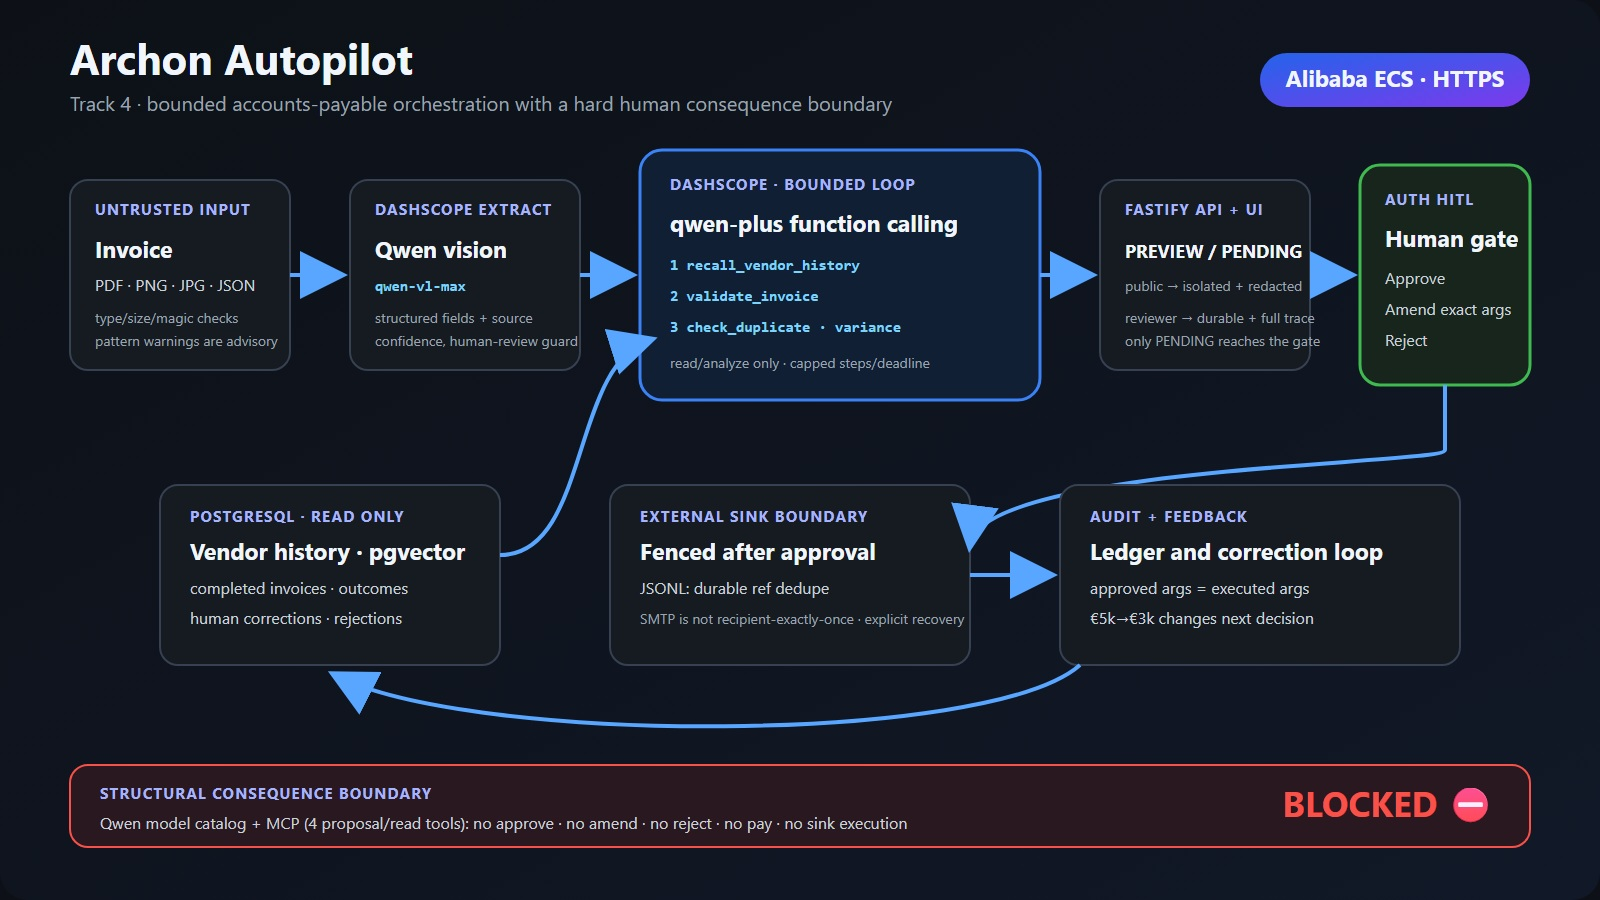
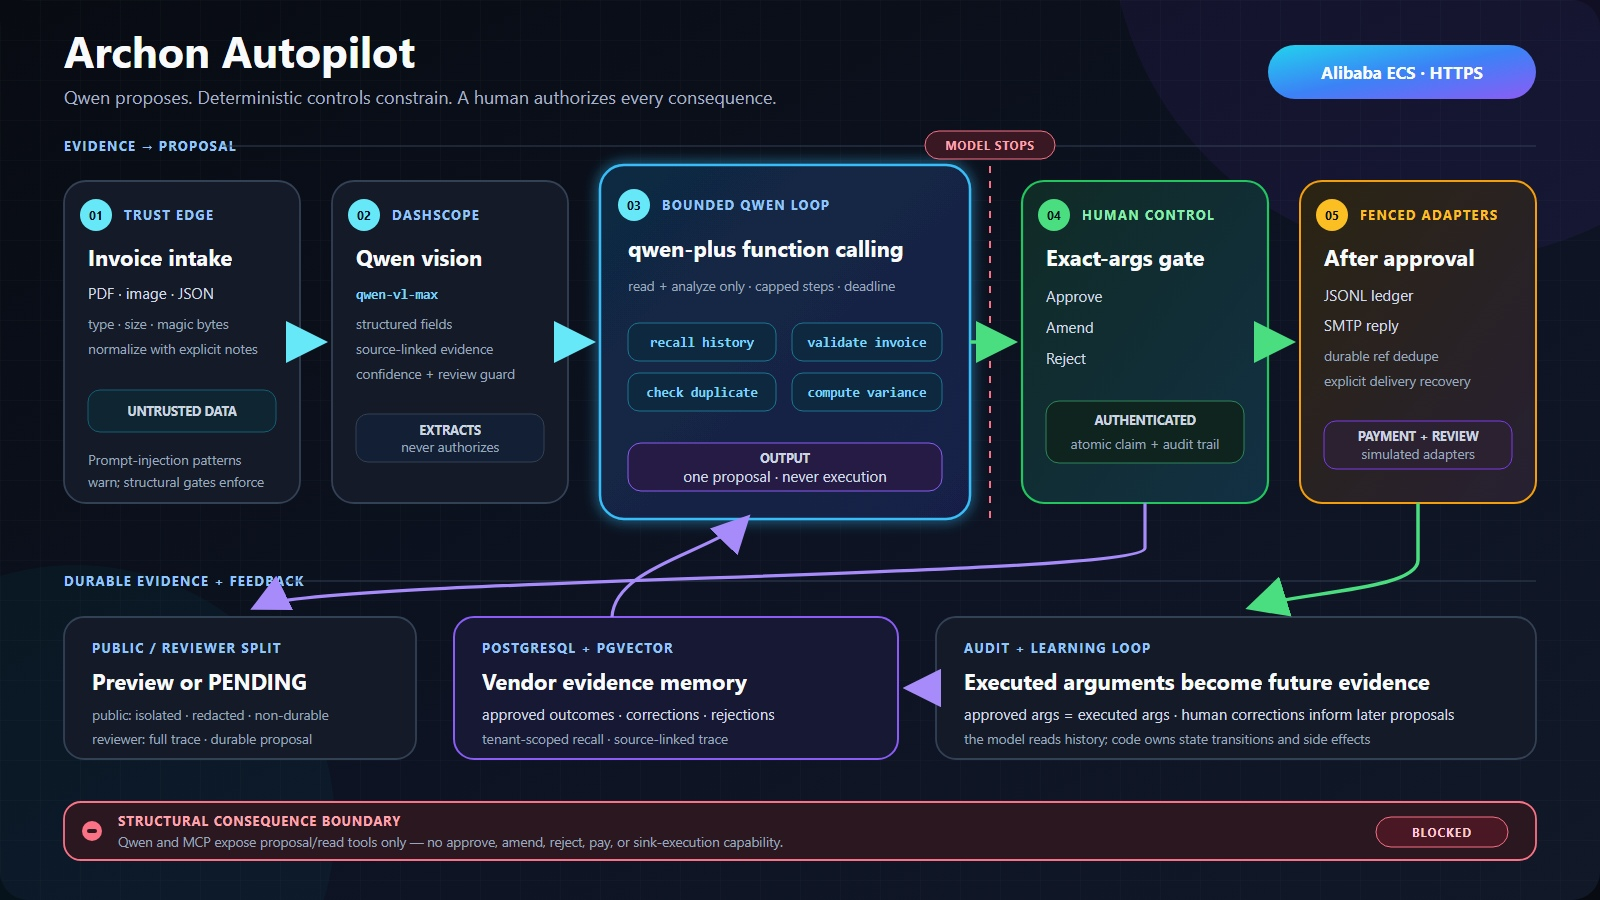
docs(demo): modernize judge architecture

diff --git a/tests/docs/docs-consistency.test.ts b/tests/docs/docs-consistency.test.ts
@@ -699,7 +699,20 @@ test("CHECK 6 · media: Devpost thumbnail is exact 3:2, original, and self-conta
 });
 
 test("CHECK 6 · media: canonical architecture JPEG has no public metadata segments", () => {
+  const svg = readFileSync(join(ROOT, "docs", "judge-architecture.svg"), "utf8");
+  const blog = readFileSync(join(ROOT, "demo", "BLOG.md"), "utf8");
+  const story = readFileSync(join(ROOT, "demo", "PROJECT_STORY.md"), "utf8");
   const jpeg = readFileSync(join(ROOT, "demo", "final-media", "judge-architecture.jpg"));
+
+  assert.match(svg, /Qwen proposes\. Deterministic controls constrain\. A human authorizes every consequence\./);
+  assert.match(svg, /MODEL STOPS/);
+  assert.match(svg, /STRUCTURAL CONSEQUENCE BOUNDARY/);
+  assert.doesNotMatch(svg, /€|\$\s*\d|hidden costs?/i, "judge architecture must not use amount or hidden-cost rhetoric");
+  for (const [name, markdown] of [["blog", blog], ["project story", story]] as const) {
+    assert.match(markdown, /\.\/final-media\/judge-architecture\.jpg/, `${name} must use the readable judge architecture`);
+    assert.doesNotMatch(markdown, /!\[[^\]]*System Architecture[^\]]*\]\(\.\.\/docs\/architecture\.png\)/i,
+      `${name} must not present the dense technical appendix as the judge-facing System Architecture`);
+  }
   assert.deepEqual([...jpeg.subarray(0, 2)], [0xff, 0xd8], "architecture asset must be JPEG");
 
   const metadataMarkers = new Set([
@@ -743,6 +756,7 @@ test("CHECK 6 · media: canonical architecture JPEG has no public metadata segme
 
   const renderer = readFileSync(join(ROOT, "scripts", "render-submission-assets.mjs"), "utf8");
   assert.match(renderer, /--write\|--check/);
+  assert.match(renderer, /demo\/final-media\/judge-architecture\.jpg is not the canonical raster of docs\/judge-architecture\.svg/);
   assert.match(renderer, /entropy-coded image data changed while stripping metadata/i);
 });
 

diff --git a/demo/BLOG.md b/demo/BLOG.md
@@ -20,9 +20,12 @@ and how we measured whether the agent's decisions are any good.
 
 ## System Architecture
 
-Below is the system architecture diagram showing the Autopilot agent loop, human-in-the-loop gate, and defense layer:
+Below is the judge-facing system architecture: one readable proposal flow, an explicit
+"model stops" boundary, authenticated human control, and a separate durable evidence
+loop. The dense component-level render remains available in the repository as a
+technical appendix.
 
-![System Architecture](../docs/architecture.png)
+![Archon Autopilot system architecture](./final-media/judge-architecture.jpg)
 
 ## The workflow: reason all the way up to the point of consequence
 

diff --git a/demo/PROJECT_STORY.md b/demo/PROJECT_STORY.md
@@ -84,7 +84,7 @@ Alibaba deployment.
 
 Below is the system architecture diagram showing the Autopilot agent loop, human-in-the-loop gate, and defense layer:
 
-![System Architecture](../docs/architecture.png)
+![Archon Autopilot system architecture](./final-media/judge-architecture.jpg)
 
 ## How we built it
 